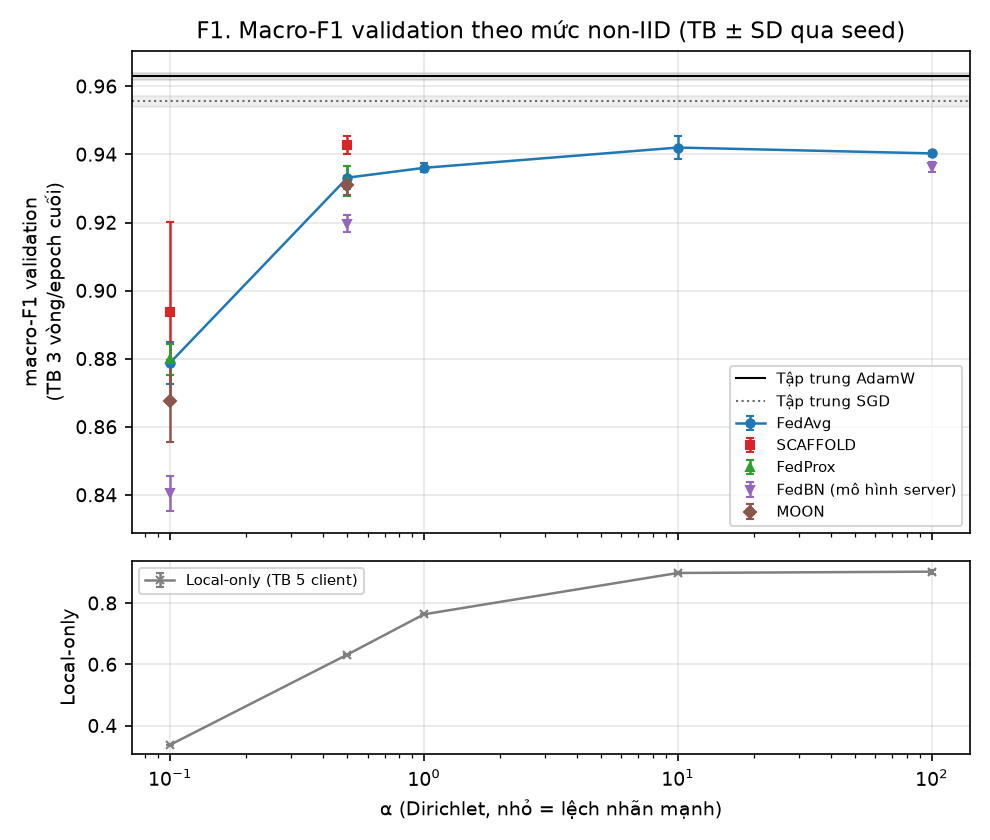
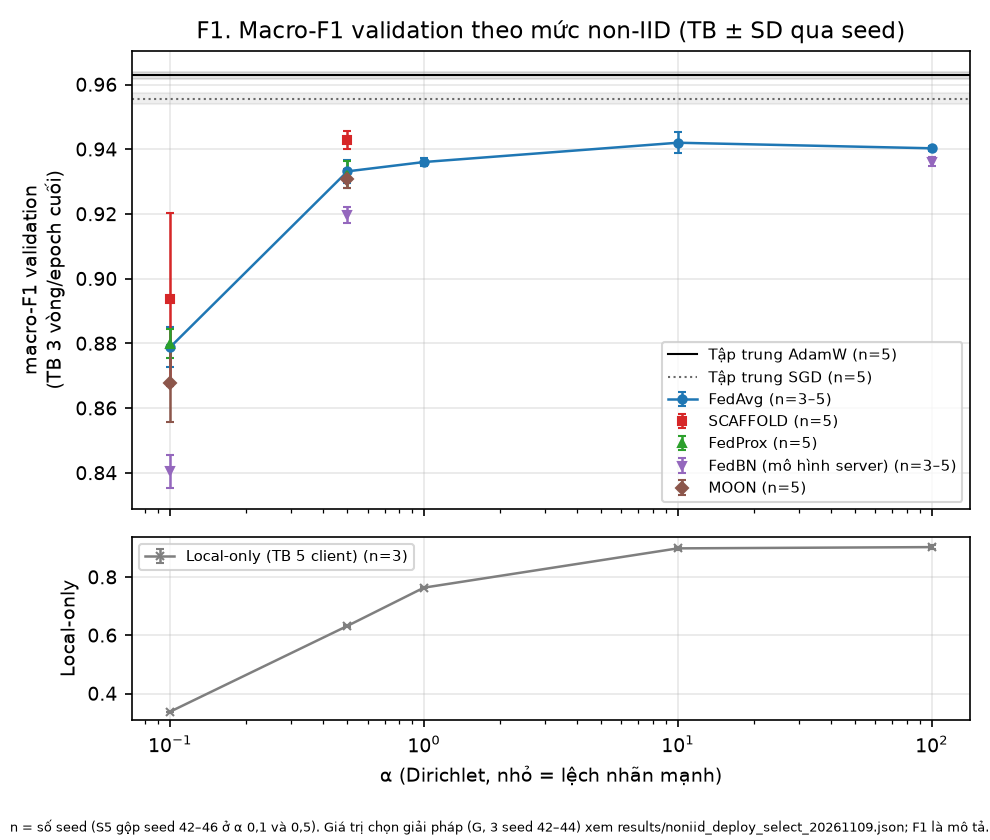
pc-v3: F1 ghi so seed (n) va chu thich G; README them dinh nghia R95/R99
- F1: legend co n theo nhom, chu thich 'G 3 seed 42-44 xem noniid_deploy_select; F1 la mo ta', FedBN alpha 100 la R-DIAG (runner q18)
- README muc 8: dinh nghia R95/R99 va cach tinh MB cho F4; ghi chu F1 gop seed S5

diff --git a/pc_v3_ket_qua/code/pc_r9/make_report_figures.py b/pc_v3_ket_qua/code/pc_r9/make_report_figures.py
@@ -84,20 +84,20 @@ fig, (ax, axl) = plt.subplots(2, 1, figsize=(6.6, 5.6), sharex=True, gridspec_kw
 data = []
 for opt, col, lab in (("adamw", "black", "Tập trung AdamW"), ("sgd", "dimgray", "Tập trung SGD")):
     m, s = cen[opt]
-    ax.axhline(m, color=col, lw=1, ls="-" if opt == "adamw" else ":", label=lab)
+    ax.axhline(m, color=col, lw=1, ls="-" if opt == "adamw" else ":", label=lab + " (n=5)")
     ax.axhspan(m - s, m + s, color=col, alpha=0.10)
     data.append([lab, "", m, s, 5])
 for meth, lab, sty, col in METH:
-    xs, ms_, ss = [], [], []
+    xs, ms_, ss, ns = [], [], [], []
     for a in ALPHAS:
         d = ep_by_seed(meth, a, family="local_only" if meth == "local_only" else None)
         if len(d) >= 3:
             m, s = ms(list(d.values()))
-            xs.append(a); ms_.append(m); ss.append(s)
+            xs.append(a); ms_.append(m); ss.append(s); ns.append(len(d))
             data.append([lab, a, m, s, len(d)])
     if xs:
         tgt = axl if meth == "local_only" else ax
-        tgt.errorbar(xs, ms_, yerr=ss, marker={"fedavg": "o", "scaffold": "s", "fedprox": "^", "fedbn": "v", "moon": "D", "local_only": "x"}[meth], color=col, label=lab, capsize=2, lw=1.2, ms=4,
+        tgt.errorbar(xs, ms_, yerr=ss, marker={"fedavg": "o", "scaffold": "s", "fedprox": "^", "fedbn": "v", "moon": "D", "local_only": "x"}[meth], color=col, label=lab + (f" (n={min(ns)})" if min(ns) == max(ns) else f" (n={min(ns)}–{max(ns)})"), capsize=2, lw=1.2, ms=4,
                      linestyle="-" if meth in ("fedavg", "local_only") else "none")
 ax.set_xscale("log")
 axl.set_xlabel("α (Dirichlet, nhỏ = lệch nhãn mạnh)")
@@ -106,7 +106,9 @@ axl.set_ylabel("Local-only")
 ax.set_title("F1. Macro-F1 validation theo mức non-IID (TB ± SD qua seed)")
 ax.legend(fontsize=7, loc="lower right")
 axl.legend(fontsize=7, loc="upper left")
-fig.tight_layout(); fig.savefig(OUT / "F1_macroF1_theo_alpha.png"); plt.close(fig)
+fig.tight_layout(rect=(0, 0.04, 1, 1))
+fig.text(0.01, 0.01, "n = số seed (S5 gộp seed 42–46 ở α 0,1 và 0,5). Giá trị chọn giải pháp (G, 3 seed 42–44) xem results/noniid_deploy_select_20261109.json; F1 là mô tả. FedBN ở α=100 là R-DIAG (runner q18).", fontsize=6, ha="left")
+fig.savefig(OUT / "F1_macroF1_theo_alpha.png"); plt.close(fig)
 write_csv("F1_macroF1_theo_alpha.csv", ["nhom", "alpha", "mean", "sd", "n_seed"], data)
 
 # ---------------- F2

diff --git a/pc_v3_ket_qua/docs/README_KET_QUA_PC_V3.md b/pc_v3_ket_qua/docs/README_KET_QUA_PC_V3.md
@@ -95,6 +95,6 @@ Hình dùng trung bình ± độ lệch chuẩn (ddof 1) qua seed; số validati
 | `F6_cong_bang_client.png` | Accuracy của FedAvg theo từng client (E1) theo α | `F6_cong_bang_client.csv` | `e1/E1_per_client.csv` |
 | `F7_P6_theo_tap.png` | Test cuối P6 theo tập (PD-172, PD-463, PV-legacy, EXT-FINAL ngoài miền) | `F7_P6_theo_tap.csv` | `p6/P6_RESULT.json` |
 
-Quy tắc điểm cuối dùng trong hình: trung bình 3 vòng cuối (Tập trung: 3 epoch cuối) của `val_macro_f1_raw` hoặc `val_accuracy`. R95 / R99 theo `docs/specs/E23_SPEC.md` (E3.3).
+Quy tắc điểm cuối dùng trong hình: trung bình 3 vòng cuối (Tập trung: 3 epoch cuối) của `val_macro_f1_raw` hoặc `val_accuracy`. R95 / R99 theo `docs/specs/E23_SPEC.md` (E3.3): với E = trung bình `val_macro_f1_raw` của các vòng 38–40, R95 (R99) là vòng nhỏ nhất đạt ít nhất 95% (99%) của E; trong F4, MB = vòng × MB mỗi vòng của 5 client (hai chiều).
 Bảng FLW: `results/flw/FLW_SUMMARY.csv` (bit-exact, thời gian, rtt, byte mỗi client mỗi vòng) và `results/flw/LABEL_r2.txt` (nhãn bắt buộc, nguyên văn). Nhãn FLW-A: không viết "FedAvg chạy phân tán thật trên Flower".
-Ghi chú: ở F1, FedBN là mô hình server (BN trung bình); chỉ số chính của FedBN là mô hình có BN cục bộ, không nằm trong hình này.
+Ghi chú: F1 là mô tả; giá trị dùng để chọn giải pháp (G, 3 seed 42–44) nằm ở `results/noniid_deploy_select_20261109.json`, còn F1 gộp thêm seed 45–46 của S5 ở α 0,1 và 0,5 (chú thích n trong legend). Ở F1, FedBN là mô hình server (BN trung bình), điểm α = 100 là R-DIAG (runner q18); chỉ số chính của FedBN là mô hình có BN cục bộ, không nằm trong hình này.
